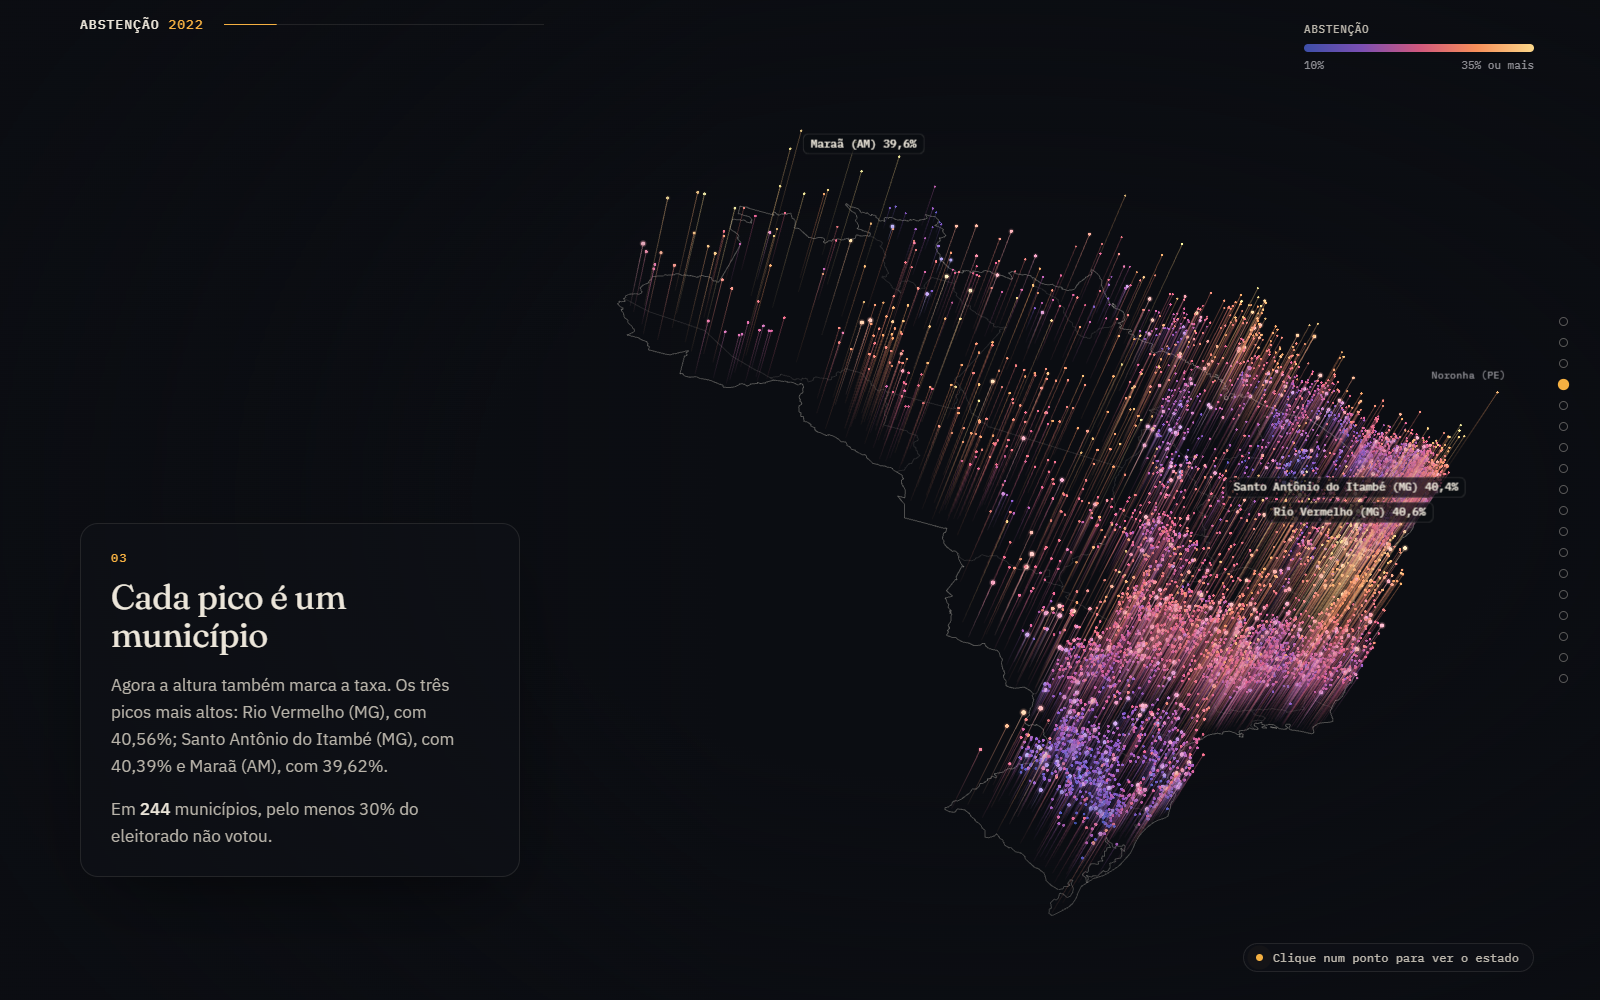
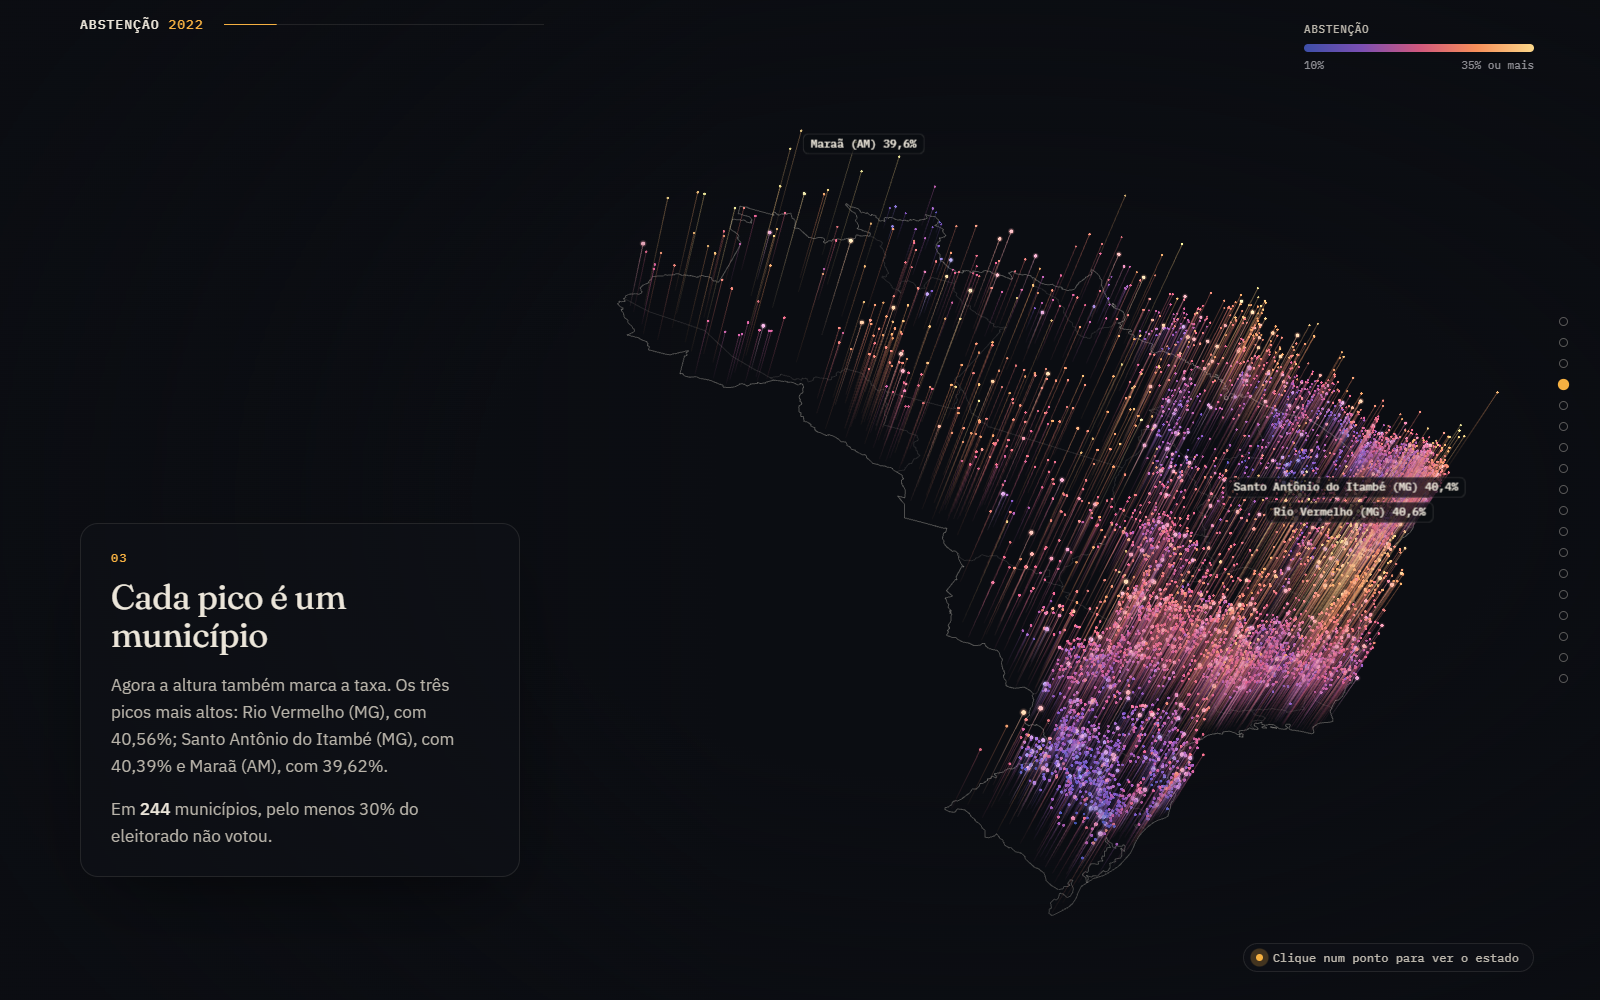
fix: abstenção sem o rótulo fixo de Noronha
Duas imagens da galeria refeitas sem o rótulo, que saiu da página, e a
frase sobre ele removida do texto em português e inglês.

diff --git a/src/content/projects-en/abstencao-eleitoral.md b/src/content/projects-en/abstencao-eleitoral.md
@@ -65,6 +65,6 @@ The regression errors have a Moran's I of **0.48**; shuffling them 999 times, th
 
 ## Scope and caveats
 
-The results measure association between municipal characteristics and abstention. None of them shows cause, and the data describes municipalities, not individual voters. The project uses tables already published by Base dos Dados, without ingesting the original TSE files. Fernando de Noronha falls outside IBGE's simplified mesh and has its own label.
+The results measure association between municipal characteristics and abstention. None of them shows cause, and the data describes municipalities, not individual voters. The project uses tables already published by Base dos Dados, without ingesting the original TSE files.
 
 Independent project, with no institutional affiliation with the TSE or IBGE.

diff --git a/src/content/projects/abstencao-eleitoral.md b/src/content/projects/abstencao-eleitoral.md
@@ -65,6 +65,6 @@ Os erros da regressão têm I de Moran de **0,48**; embaralhando 999 vezes, o ma
 
 ## Escopo e cuidados
 
-Os resultados medem associação entre características do município e abstenção. Nenhum deles mostra causa, e o dado é do município, não do eleitor. O projeto usa tabelas já publicadas pela Base dos Dados, sem ingestão dos arquivos originais do TSE. Fernando de Noronha fica fora da malha simplificada do IBGE e aparece com rótulo próprio.
+Os resultados medem associação entre características do município e abstenção. Nenhum deles mostra causa, e o dado é do município, não do eleitor. O projeto usa tabelas já publicadas pela Base dos Dados, sem ingestão dos arquivos originais do TSE.
 
 Projeto independente, sem vínculo institucional com o TSE ou o IBGE.
